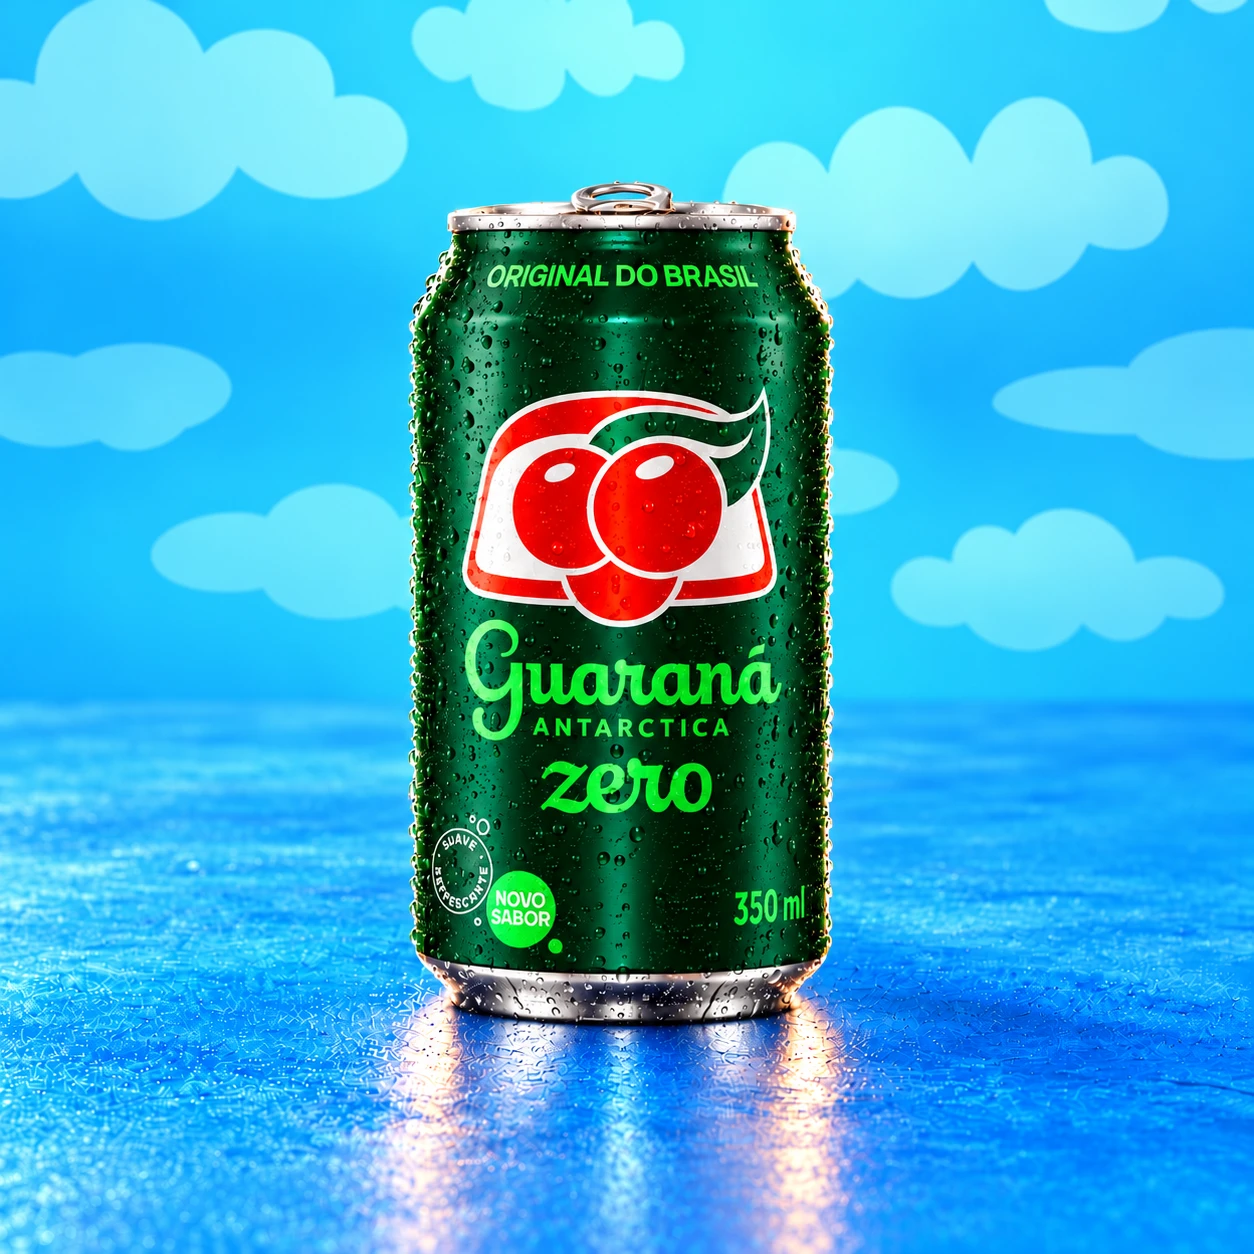
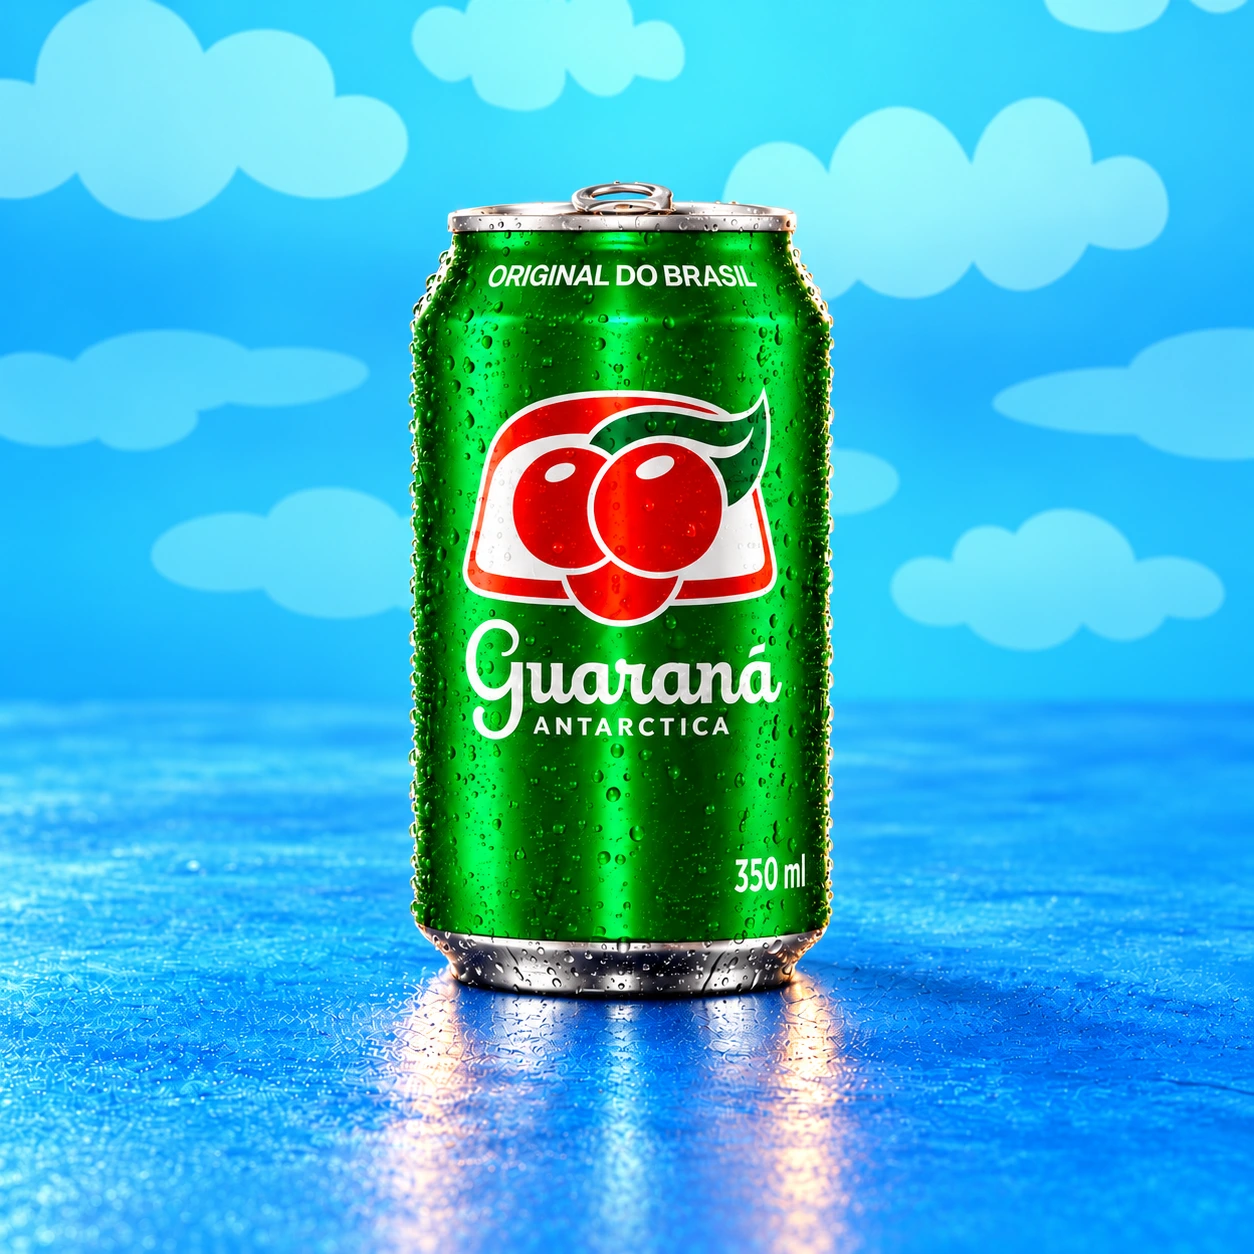
Adiciona Guarana Zero como produto e bebida do combo

diff --git a/lib/store.ts b/lib/store.ts
@@ -16,6 +16,7 @@ export const menu = [
   { id: "coke", name: "Coca-Cola normal", price: 600, category: "drink", description: "Coca-Cola original.", imageUrl: "/products/coca-original-azul.webp" },
   { id: "coke-zero", name: "Coca-Cola Zero", price: 600, category: "drink", description: "Coca-Cola sem açúcar.", imageUrl: "/products/coca-zero-azul.webp" },
   { id: "guarana", name: "Guaraná", price: 600, category: "drink", description: "Refrigerante de guaraná.", imageUrl: "/products/guarana-azul.webp" },
+  { id: "guarana-zero", name: "Guaraná Zero", price: 500, category: "drink", description: "Guaraná Antarctica Zero açúcar, lata de 350 ml.", imageUrl: "/products/guarana-zero-azul.webp" },
   { id: "water", name: "Água mineral", price: 300, category: "drink", description: "Água mineral.", imageUrl: "/products/water.webp" },
   { id: "sparkling-water", name: "Água com gás", price: 400, category: "drink", description: "Água mineral com gás.", imageUrl: "/products/sparkling-water.png" },
   { id: "sweets-kit", name: "Kit com 4 docinhos", price: 700, category: "side", description: "Quatro docinhos por kit.", imageUrl: "/products/docinhos-nuvens.webp" },
@@ -161,6 +162,16 @@ export async function ensureSchema() {
           database.prepare("UPDATE products SET image_url = ?, updated_at = ? WHERE id = ? AND NOT EXISTS (SELECT 1 FROM menu_revisions WHERE id = ?)")
             .bind(product.imageUrl, new Date().toISOString(), product.id, productPhotosRevision)),
         database.prepare("INSERT OR IGNORE INTO menu_revisions (id,applied_at) VALUES (?,?)").bind(productPhotosRevision, new Date().toISOString()),
+      ]);
+      const guaranaZeroRevision = "guarana-zero-product-2026-10-v1";
+      const guaranaZeroNow = new Date().toISOString();
+      await database.batch([
+        database.prepare(`INSERT OR IGNORE INTO products (id,name,description,category,price,image_url,active,sort_order,ingredients_json,created_at,updated_at)
+          SELECT 'guarana-zero','Guaraná Zero','Guaraná Antarctica Zero açúcar, lata de 350 ml.','drink',
+            COALESCE((SELECT price FROM products WHERE id = 'guarana'),500),'/products/guarana-zero-azul.webp',1,65,'[]',?,?
+          WHERE NOT EXISTS (SELECT 1 FROM menu_revisions WHERE id = ?)`)
+          .bind(guaranaZeroNow, guaranaZeroNow, guaranaZeroRevision),
+        database.prepare("INSERT OR IGNORE INTO menu_revisions (id,applied_at) VALUES (?,?)").bind(guaranaZeroRevision, guaranaZeroNow),
       ]);
       const burgerPhotoRevision = "burger-photo-2026-10-v1";
       await database.batch([

diff --git a/lib/menu-options.ts b/lib/menu-options.ts
@@ -7,6 +7,7 @@ const comboDrinks = [
   { id: "coke", value: "Coca-Cola normal" },
   { id: "coke-zero", value: "Coca-Cola Zero" },
   { id: "guarana", value: "Guaraná" },
+  { id: "guarana-zero", value: "Guaraná Zero" },
   { id: "sparkling-water", value: "Água com gás" },
 ] as const;
 
